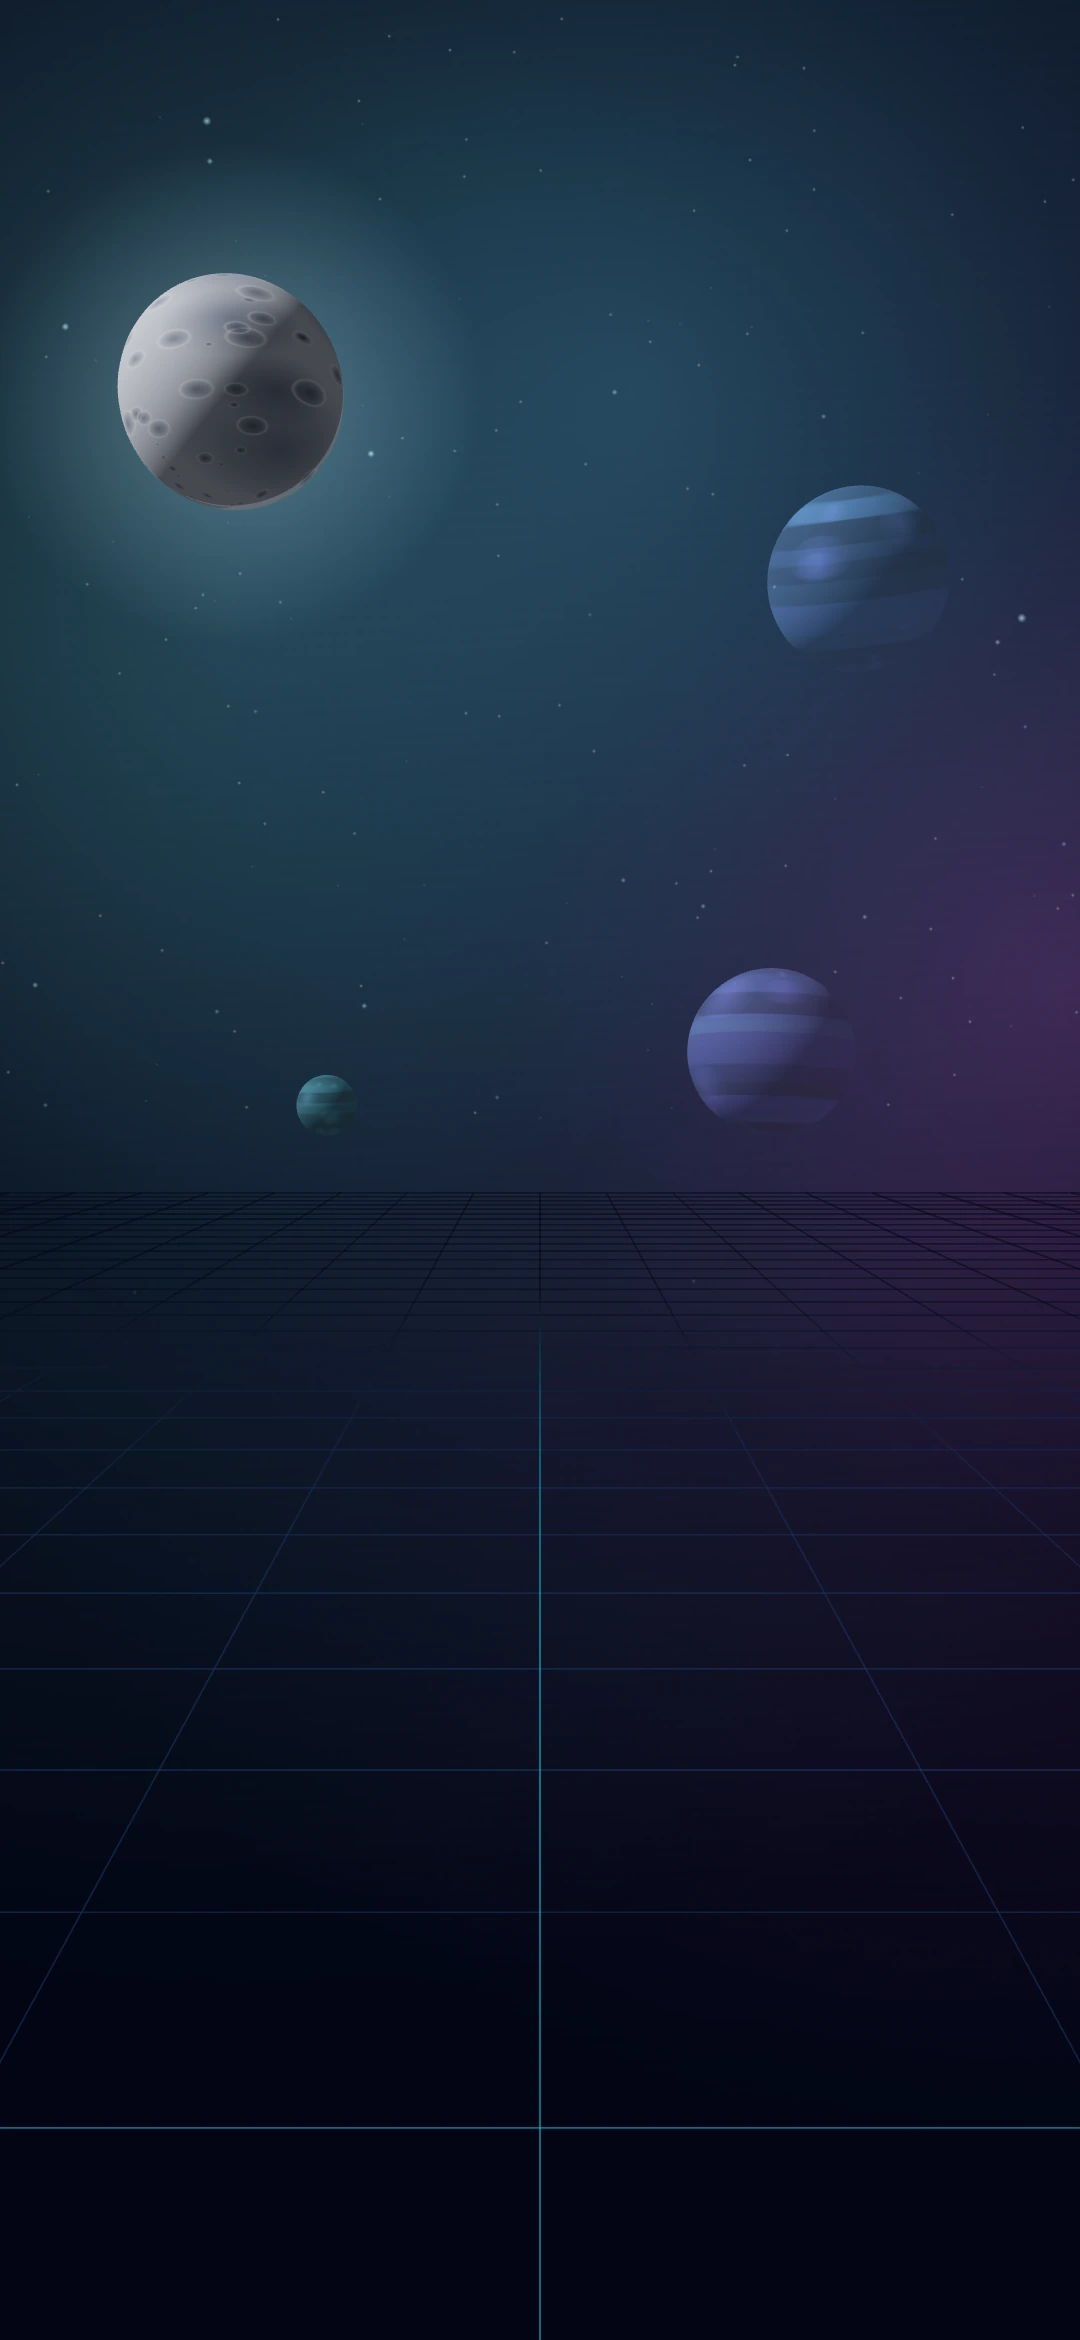
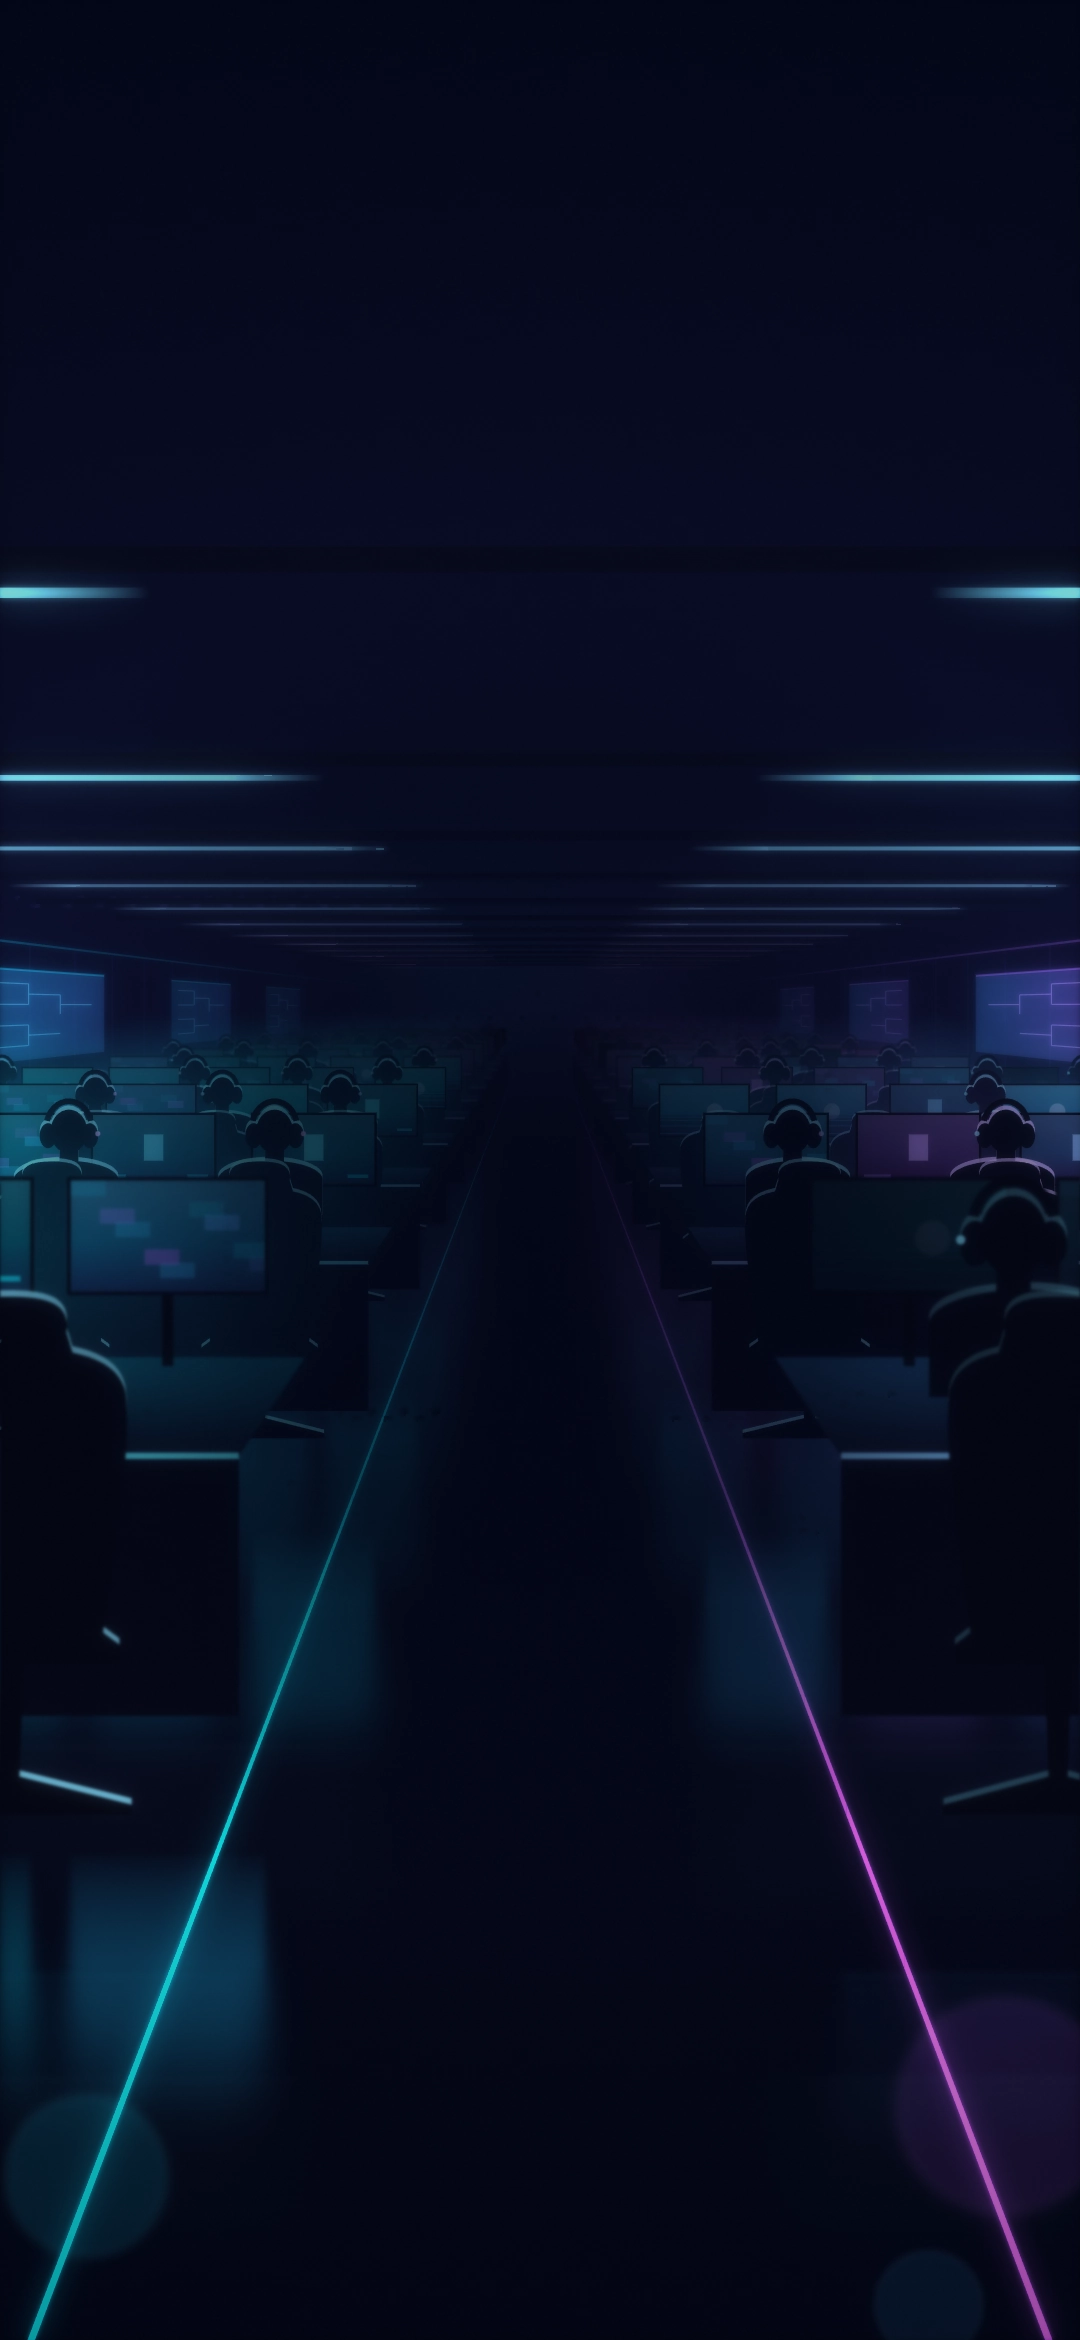
feat(login): new static background — a neon gaming hall
Owner, 2026-11-13: the still of the old space scene read as the old
background. Picked from three locally rendered candidates: a night computer
club seen from behind the players (rows of seats, monitors, tournament
boards, brand cyan → purple). Same file names, so the owner web needs only
the pin. The instant gradient under the image is retuned to the hall.
Text contrast ≥ 6.5:1 on every measured screen (was 4.1 at worst).

diff --git a/src/styles/global.css b/src/styles/global.css
@@ -4078,44 +4078,48 @@ div.cp-switch {
    fly-in, a pulsing field and a 3D card flip — on a weak club PC the form
    answered typing in ~0.9 s while the scene rendered.
 
-   Now the scene is ONE frame of itself, rendered once (Chromium on a real
-   GPU, see CLAUDE.md "Static sign-in") into public/bg/login-space*.webp, laid
-   over a CSS gradient that paints with the first frame, so the screen already
-   looks finished before the picture arrives; the picture then simply appears.
-   Nothing here moves. Used by Login, ResetPassword and NetworkBlockedScreen. */
+   Now the background is ONE still picture, public/bg/login-space*.webp: a
+   computer club at night seen from behind the players (rendered once, see
+   CLAUDE.md "Static sign-in"). It lies over a CSS gradient that paints with
+   the first frame and copies the picture's broad light (cyan rows on the
+   left, purple on the right, a dark aisle in the middle), so the screen
+   already looks finished before the picture arrives; the picture then simply
+   appears. Nothing here moves. Used by Login, ResetPassword and
+   NetworkBlockedScreen. (The file names are older than the picture.) */
 
 .login-shell {
   position: relative;
   overflow: hidden;
-  /* Deliberately fixed colours, not theme tokens: they are the picture's own
-     (its sky is #020514), and the sign-in is always the default theme. */
-  background-color: #020514;
+  /* Deliberately fixed colours, not theme tokens: they are the picture's own,
+     and the sign-in is always the default theme. */
+  background-color: #070b1f;
   background-image:
     url("/bg/login-space.webp"),
-    /* the moon's halo, upper left */
-    radial-gradient(ellipse 13% 22% at 27% 23%, rgb(125 142 156 / 0.3), rgb(52 72 88 / 0.16) 50%, transparent 78%),
-    /* the cyan cloud over the centre */
-    radial-gradient(ellipse 34% 40% at 50% 16%, rgb(31 70 92 / 0.85), transparent 72%),
-    /* the violet cloud to the right of the form */
-    radial-gradient(ellipse 20% 30% at 66% 42%, rgb(56 36 86 / 0.8), transparent 72%),
-    /* sky above the horizon, the darker floor under it */
-    linear-gradient(180deg, #040a1b 0%, #0a1528 50%, #060b1d 52%, #020514 88%);
+    /* the dark aisle under the form */
+    radial-gradient(ellipse 18% 42% at 50% 52%, rgb(6 9 29 / 0.9), transparent 75%),
+    /* the rows and their screens: cyan on the left, purple on the right */
+    radial-gradient(ellipse 32% 22% at 14% 64%, rgb(22 85 119 / 0.75), transparent 72%),
+    radial-gradient(ellipse 32% 22% at 86% 62%, rgb(41 53 99 / 0.8), transparent 72%),
+    /* the ceiling above, the floor below */
+    linear-gradient(180deg, #0d1729 0%, #0e1630 32%, #0b1126 52%, #091224 72%, #070e1f 100%);
   background-size: cover, auto, auto, auto, auto;
   background-position: center;
   background-repeat: no-repeat;
 }
 
 /* A tall screen (a phone, the Telegram Mini App, a portrait tablet) gets the
-   scene re-composed for it: the landscape frame cropped to a phone would lose
-   the moon and every planet off its sides. */
+   hall re-framed for it: the landscape picture cropped to a phone would keep
+   only the aisle. */
 @media (max-aspect-ratio: 3/4) {
   .login-shell {
     background-image:
       url("/bg/login-space-portrait.webp"),
-      radial-gradient(ellipse 30% 14% at 21% 16%, rgb(125 142 156 / 0.32), rgb(52 72 88 / 0.18) 50%, transparent 78%),
-      radial-gradient(ellipse 70% 30% at 45% 20%, rgb(36 70 90 / 0.85), transparent 75%),
-      radial-gradient(ellipse 45% 20% at 85% 42%, rgb(56 40 86 / 0.8), transparent 72%),
-      linear-gradient(180deg, #1c3344 0%, #1a3043 35%, #111d31 50%, #070b1d 52%, #020514 92%);
+      radial-gradient(ellipse 30% 10% at 6% 47%, rgb(15 44 73 / 0.9), transparent 75%),
+      radial-gradient(ellipse 30% 10% at 94% 47%, rgb(25 33 69 / 0.9), transparent 75%),
+      radial-gradient(ellipse 30% 8% at 4% 86%, rgb(8 42 63 / 0.8), transparent 75%),
+      radial-gradient(ellipse 30% 8% at 96% 86%, rgb(17 14 39 / 0.8), transparent 75%),
+      linear-gradient(180deg, #04081a 0%, #080c23 25%, #0b1229 38%, #070c1f 55%, #050b1a 100%);
+    background-size: cover, auto, auto, auto, auto, auto;
     background-position: center top;
   }
 }
